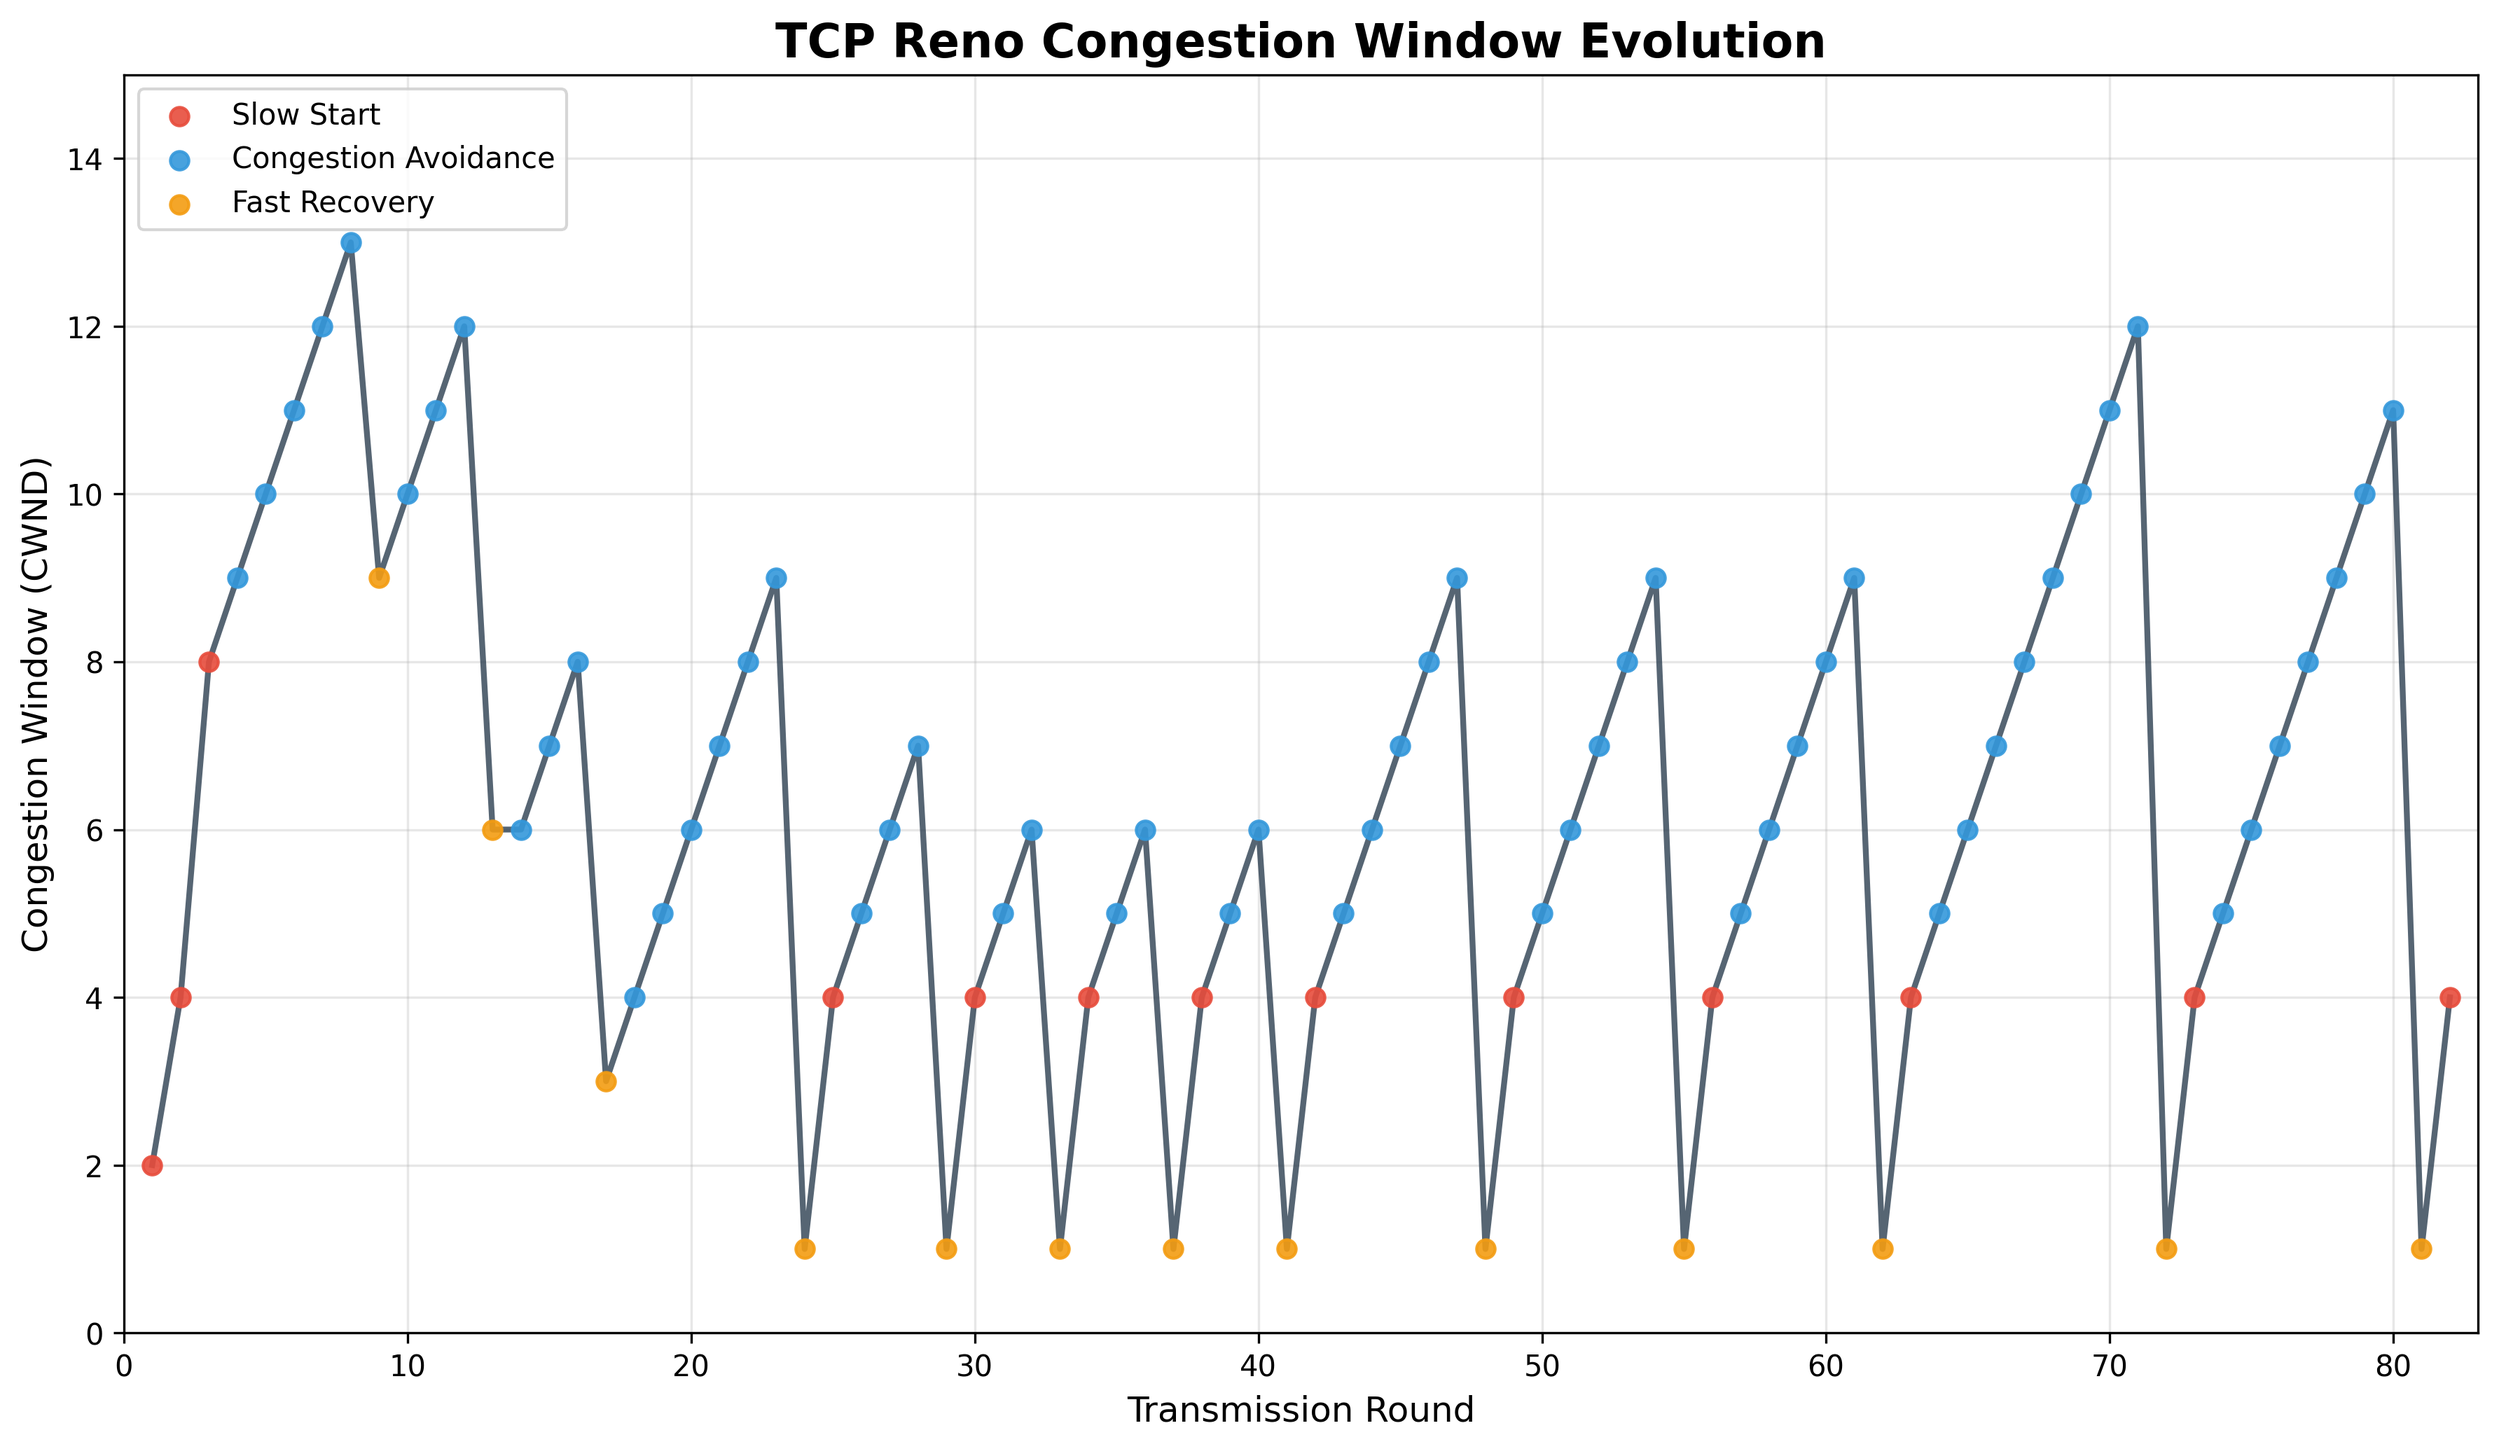
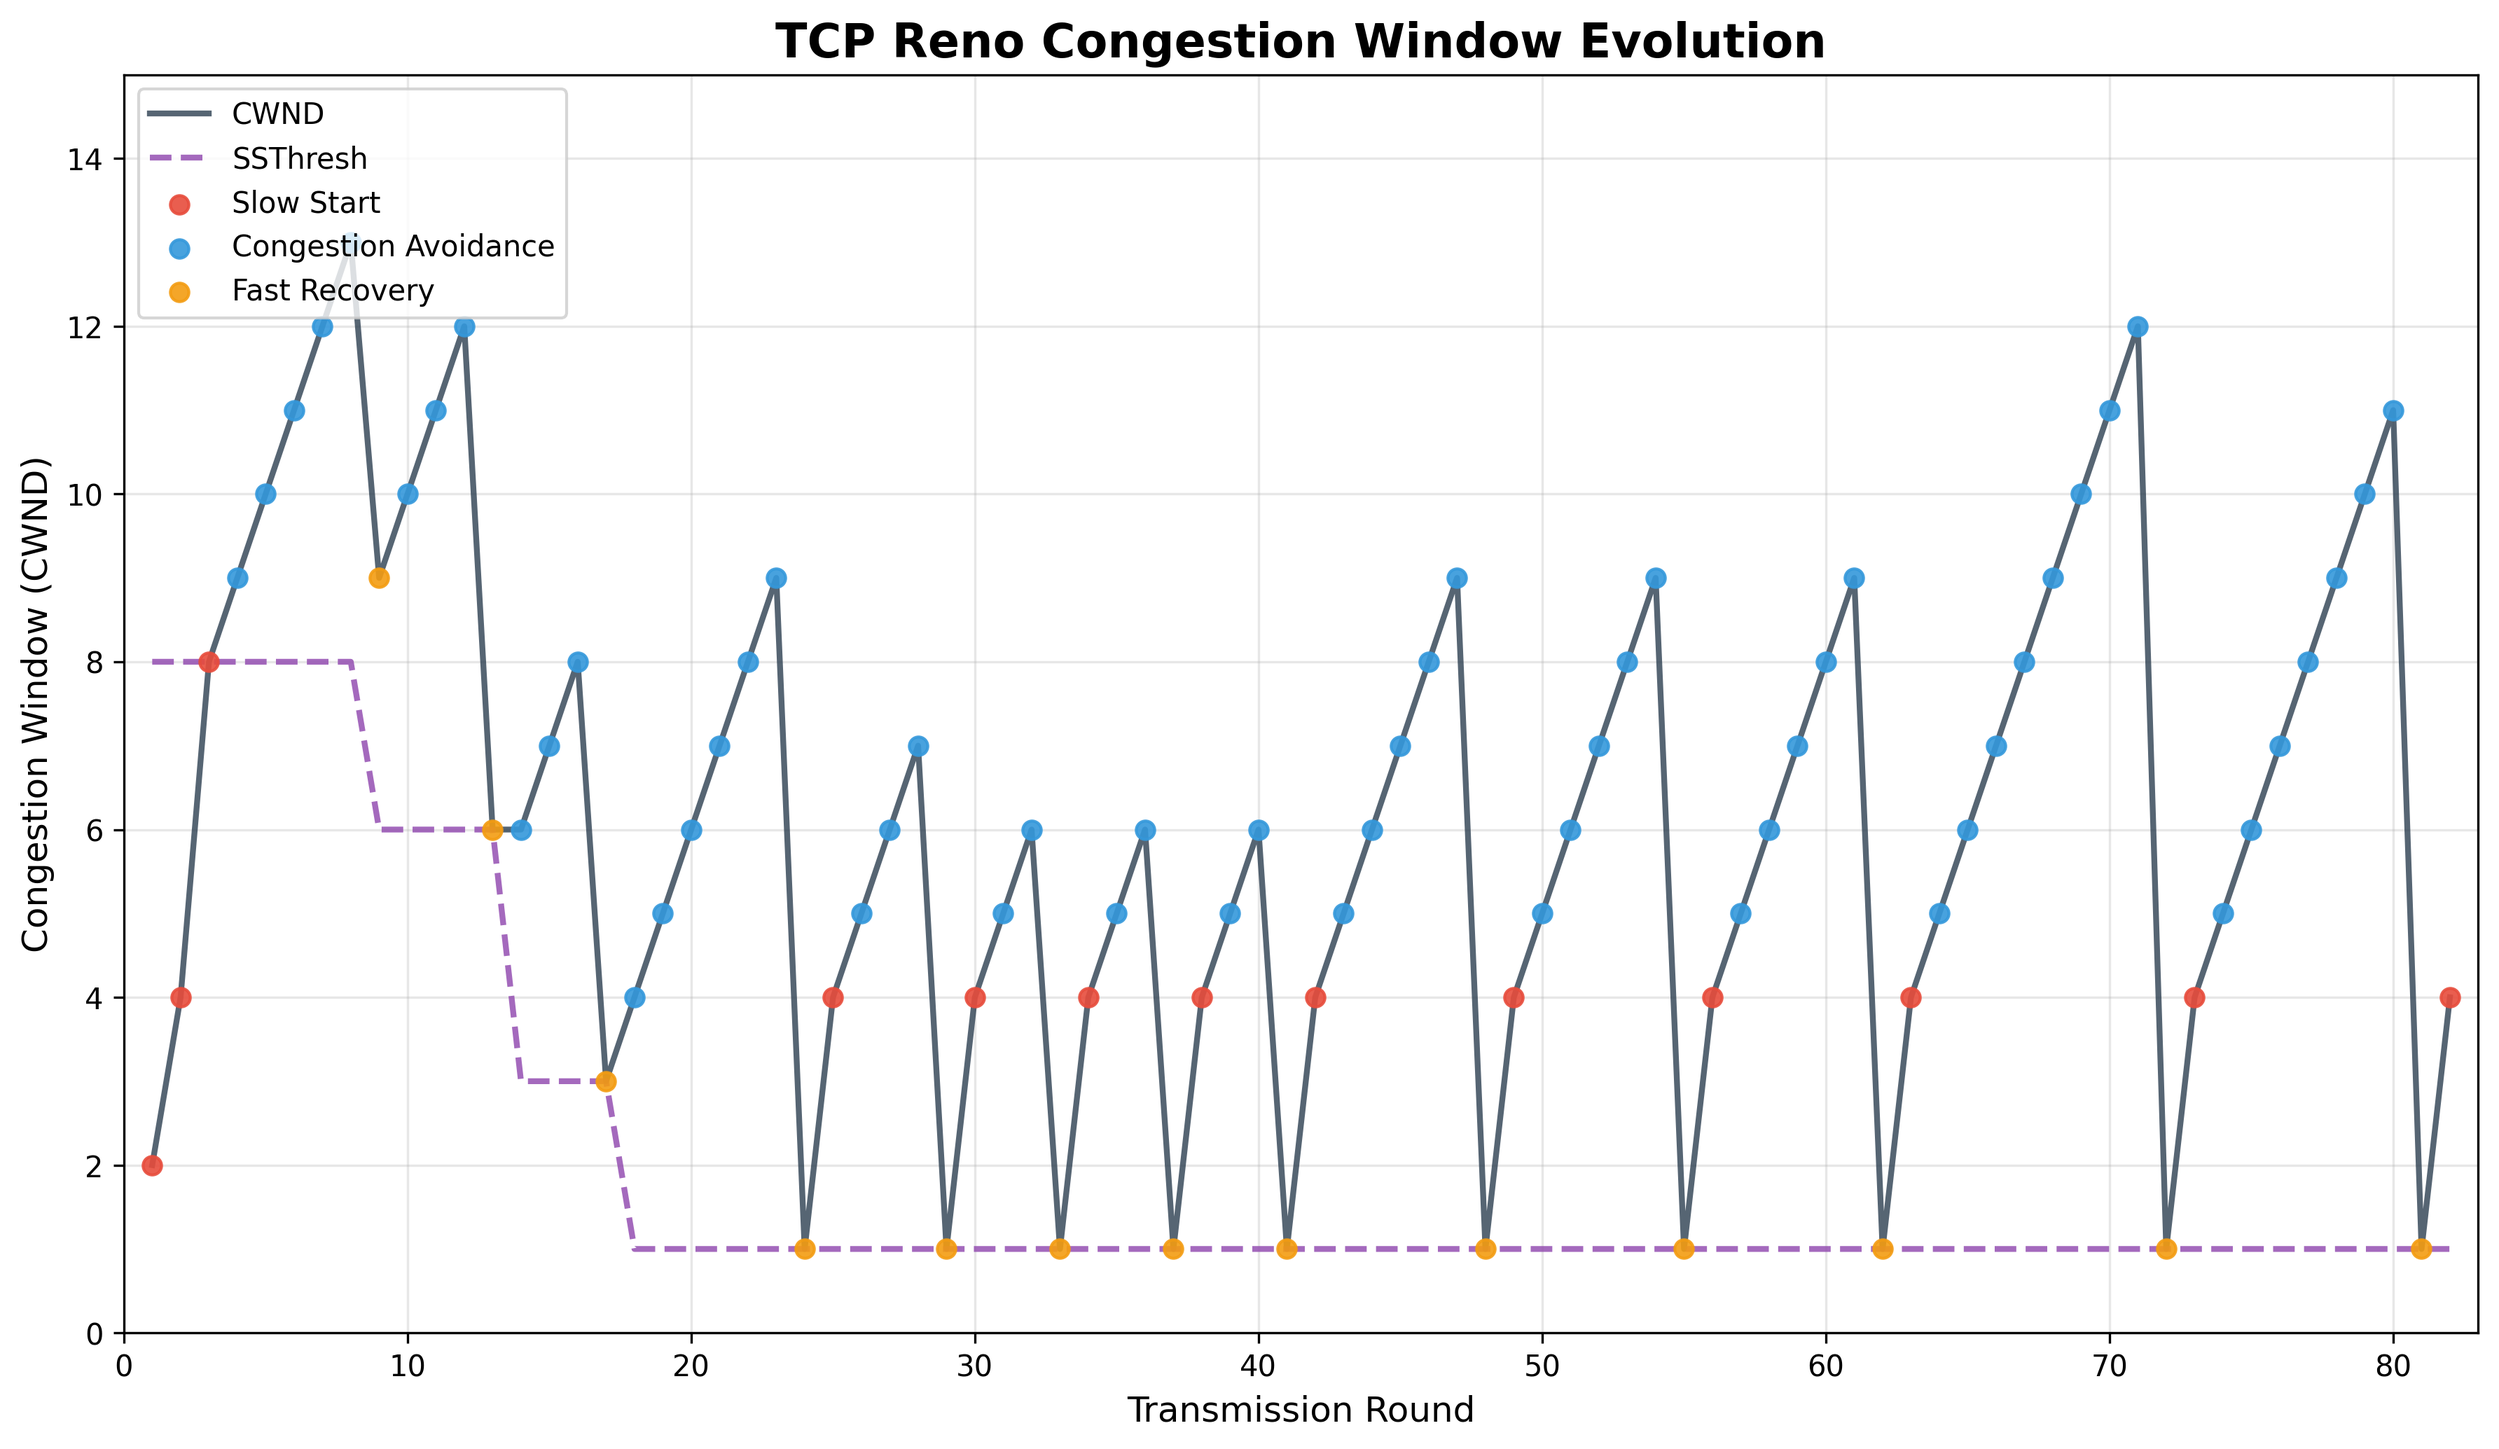
j

diff --git a/Congestion/graph.py b/Congestion/graph.py
@@ -49,9 +49,38 @@ def plot_tcp_reno_from_data():
         'Fast Recovery': '#F39C12'
     }
     
-    # Plot main line
+    # Plot main CWND line
     plt.plot(cwnd_data['Round'], cwnd_data['CWND'],
-             linewidth=2, color='#2C3E50', alpha=0.8)
+             linewidth=2, color='#2C3E50', alpha=0.8, label='CWND')
+    
+    # Plot ssthresh if available in the data
+    if 'ssthresh' in cwnd_data.columns or 'SSThresh' in cwnd_data.columns:
+        # Handle different possible column names
+        ssthresh_col = 'ssthresh' if 'ssthresh' in cwnd_data.columns else 'SSThresh'
+        plt.plot(cwnd_data['Round'], cwnd_data[ssthresh_col],
+                 linewidth=2, color='#8E44AD', linestyle='--', 
+                 alpha=0.8, label='SSThresh')
+        print(f"Plotting ssthresh from column: {ssthresh_col}")
+    else:
+        # If ssthresh is not in the data, estimate it based on CWND drops
+        print("SSThresh column not found. Estimating based on CWND behavior...")
+        estimated_ssthresh = []
+        current_ssthresh = 16  # Default initial ssthresh
+        
+        for i in range(len(cwnd_data)):
+            if i > 0:
+                prev_cwnd = cwnd_data.iloc[i-1]['CWND']
+                current_cwnd = cwnd_data.iloc[i]['CWND']
+                
+                # When CWND drops significantly, update ssthresh
+                if current_cwnd < prev_cwnd * 0.7:
+                    current_ssthresh = max(prev_cwnd // 2, 1)
+            
+            estimated_ssthresh.append(current_ssthresh)
+        
+        plt.plot(cwnd_data['Round'], estimated_ssthresh,
+                 linewidth=2, color='#8E44AD', linestyle='--', 
+                 alpha=0.8, label='SSThresh (estimated)')
     
     # Color-code different phases
     for phase, color in colors.items():
@@ -68,7 +97,11 @@ def plot_tcp_reno_from_data():
     
     # Set limits
     plt.xlim(0, max(cwnd_data['Round']) + 1)
-    plt.ylim(0, max(cwnd_data['CWND']) + 2)
+    max_y = max(cwnd_data['CWND']) + 2
+    if 'ssthresh' in cwnd_data.columns or 'SSThresh' in cwnd_data.columns:
+        ssthresh_col = 'ssthresh' if 'ssthresh' in cwnd_data.columns else 'SSThresh'
+        max_y = max(max_y, max(cwnd_data[ssthresh_col]) + 2)
+    plt.ylim(0, max_y)
     
     plt.tight_layout()
     plt.savefig('tcp_reno_behavior.png', dpi=300, bbox_inches='tight')
